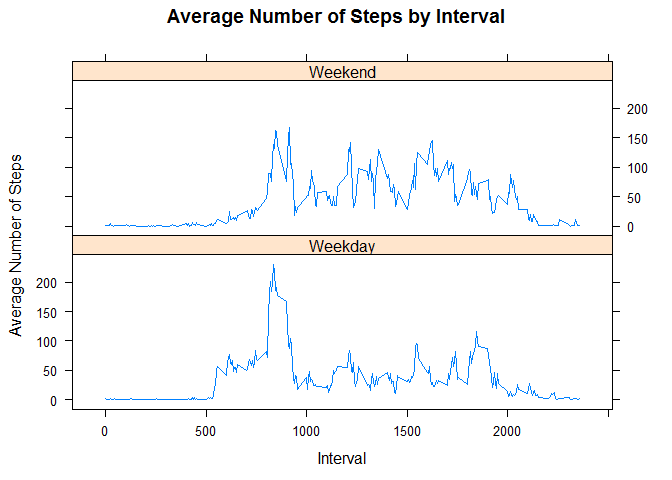
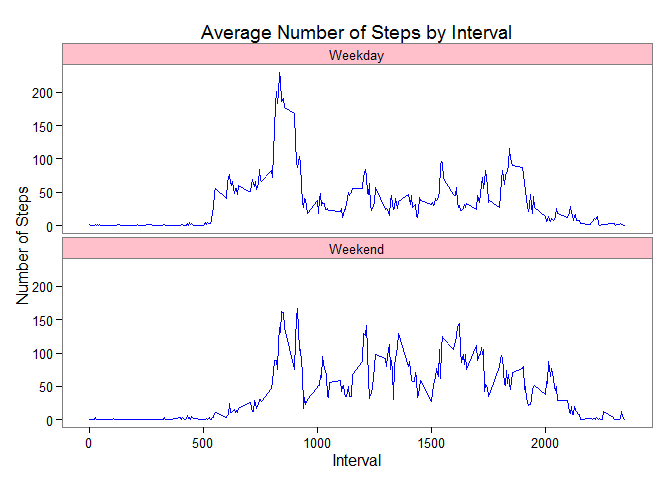
Changed the last plot to use ggplot.

diff --git a/PA1_template.html b/PA1_template.html
@@ -190,12 +190,14 @@ names(processedActivityDataByIntervalDateType) &lt;- c(&quot;interval&quot;,&quo
 <div id="make-a-panel-plot-containing-a-time-series-plot-i.e.type-l-of-the-5-minute-interval-x-axis-and-the-average-number-of-steps-taken-averaged-across-all-weekday-days-or-weekend-days-y-axis." class="section level4">
 <h4>2. Make a panel plot containing a time series plot (i.e. type = “l”) of the 5-minute interval (x-axis) and the average number of steps taken, averaged across all weekday days or weekend days (y-axis).</h4>
 <pre class="r"><code># Make a panel plot to represent average steps per day for weekday vs. weekend 
-library(lattice)
-xyplot(steps ~ interval|dateType, data = processedActivityDataByIntervalDateType,
-       type = &quot;l&quot;, layout=c(1, 2),
-       main = &quot;Average Number of Steps by Interval&quot;,
-       xlab = &quot;Interval&quot;, ylab = &quot;Average Number of Steps&quot;)</code></pre>
[1 lines of base64/hex data omitted]
+ggplot(processedActivityDataByIntervalDateType, aes(x = interval, y = steps)) + 
+  geom_line(color = &quot;blue&quot;) + 
+  labs(title = &quot;Average Number of Steps by Interval&quot;, x = &quot;Interval&quot;, y = &quot;Number of Steps&quot;) +
+  facet_wrap( ~dateType, ncol=1) +
+  theme_bw() + 
+  theme(panel.grid.major = element_blank(), panel.grid.minor = element_blank(), 
+        strip.background = element_rect(fill=&quot;pink&quot;))</code></pre>
[1 lines of base64/hex data omitted]
 </div>
 </div>
 

diff --git a/PA1_template.md b/PA1_template.md
@@ -179,11 +179,13 @@ names(processedActivityDataByIntervalDateType) <- c("interval","dateType","steps
 
 ```r
 # Make a panel plot to represent average steps per day for weekday vs. weekend 
-library(lattice)
-xyplot(steps ~ interval|dateType, data = processedActivityDataByIntervalDateType,
-       type = "l", layout=c(1, 2),
-       main = "Average Number of Steps by Interval",
-       xlab = "Interval", ylab = "Average Number of Steps")
+ggplot(processedActivityDataByIntervalDateType, aes(x = interval, y = steps)) + 
+  geom_line(color = "blue") + 
+  labs(title = "Average Number of Steps by Interval", x = "Interval", y = "Number of Steps") +
+  facet_wrap( ~dateType, ncol=1) +
+  theme_bw() + 
+  theme(panel.grid.major = element_blank(), panel.grid.minor = element_blank(), 
+        strip.background = element_rect(fill="pink"))
 ```
 
 ![](PA1_template_files/figure-html/unnamed-chunk-7-1.png) 
